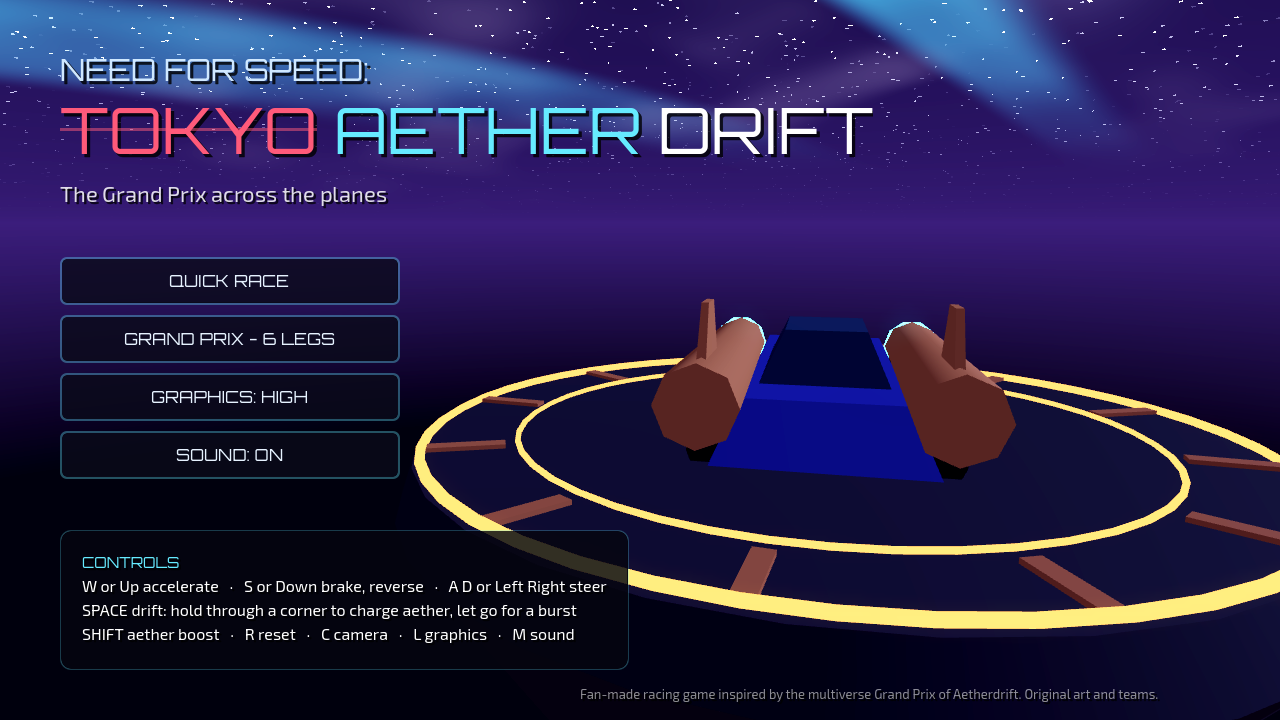
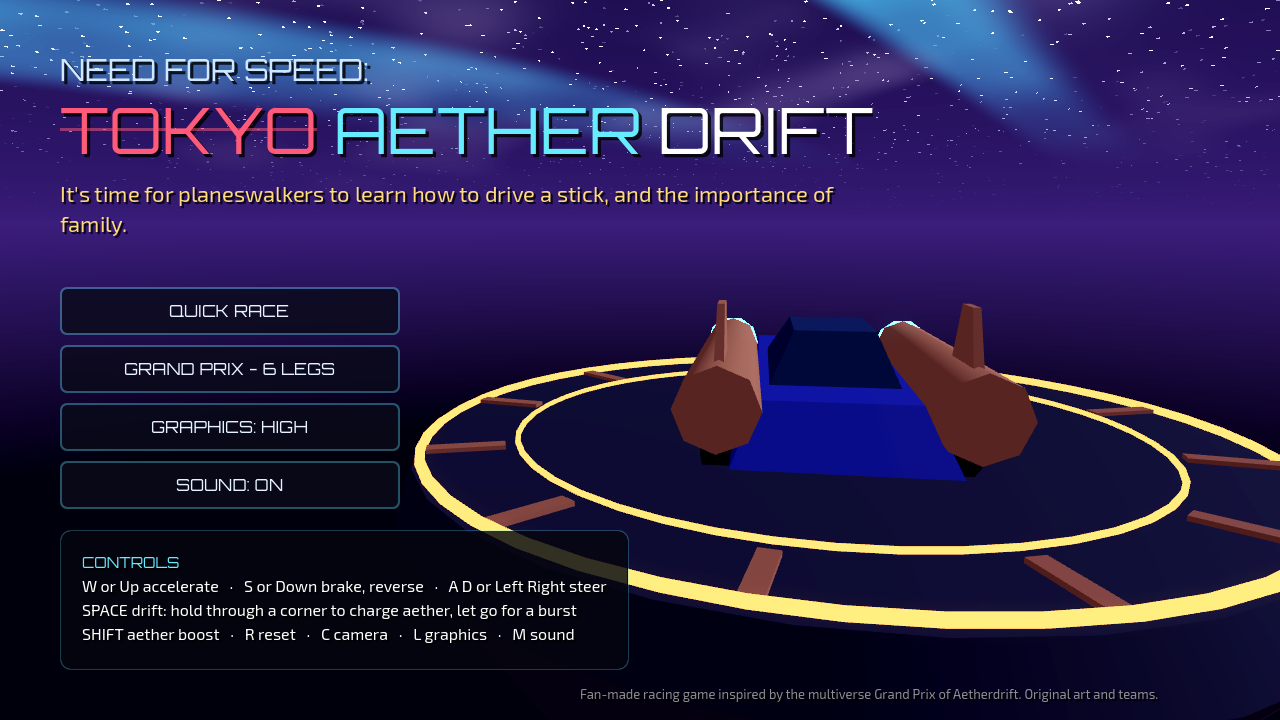
Title screen tagline: planeswalkers, a stick shift and family
Claude-Session: https://claude.ai/code/session_01QcXBruSyopMmdqWqLx6nYB

diff --git a/docs/HISTORY.md b/docs/HISTORY.md
@@ -27,3 +27,10 @@ keyboard and gamepad, generated sounds. All art is generated from code.
 
 Tested: headless simulation (all 8 cars finish on every track, laps 34-44 s), smoke test screenshots
 of every track, web build loaded and raced in headless Chromium. Not yet tuned by a human player.
+
+## 2. Tagline (2026-10-12)
+> Put in the title of video game phrase like "Its time for planeswalkers to learn how to drive a
+> stick and importance of family"
+
+The title screen now shows "It's time for planeswalkers to learn how to drive a stick, and the
+importance of family." under the logo (`Game.TAGLINE`), in gold; the shop's game page shows it too.

diff --git a/README.md b/README.md
@@ -1,5 +1,7 @@
 # Need for Speed: ~~Tokyo~~ Aether Drift
 
+*It's time for planeswalkers to learn how to drive a stick, and the importance of family.*
+
 An arcade racing game in **Godot 4.3**, set in the world of a multiversal Grand Prix: eight teams
 race across three planes through portals, from a copper-and-aether city of invention to a revived
 desert river, a primordial jungle and the boiling desert, and back for the finale. Inspired by the
